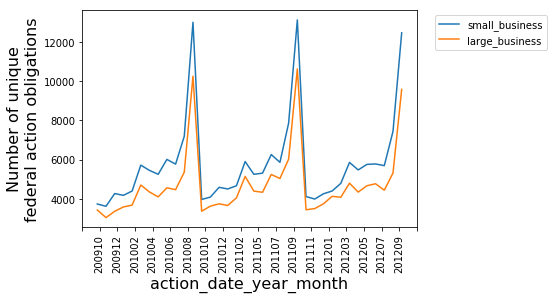
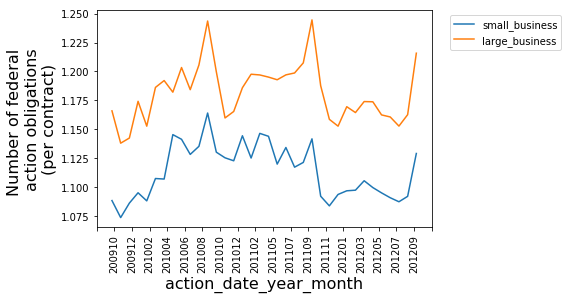
update graph for federal obligation

Changed region(s): [[0.0, 0.03, 0.7993, 0.99], [0.83, 0.06, 1.0, 0.18]]

diff --git a/codes/qp_did_sample_dist.py b/codes/qp_did_sample_dist.py
@@ -67,15 +67,20 @@ qp_data["action_date_ym"]=qp_data.action_date.apply(lambda x: x.year*100+x.month
 sb_data=qp_data[qp_data.small_business==1]
 lb_data=qp_data[qp_data.small_business==0]
 
-sb_data_obligation=sb_data.groupby(['action_date_ym'])['federal_action_obligation'].nunique().reset_index()
-lb_data_obligation=lb_data.groupby(['action_date_ym'])['federal_action_obligation'].nunique().reset_index()
+sb_data_obligation=sb_data.groupby(['action_date_ym'],as_index=False).\
+                    agg({'federal_action_obligation':'count','contract_award_unique_key':'nunique'})
+lb_data_obligation=lb_data.groupby(['action_date_ym'],as_index=False).\
+                    agg({'federal_action_obligation':'count','contract_award_unique_key':'nunique'})
+
+sb_data_obligation["normalized_federal_obligations"]=sb_data_obligation.federal_action_obligation/sb_data_obligation.contract_award_unique_key
+lb_data_obligation["normalized_federal_obligations"]=lb_data_obligation.federal_action_obligation/lb_data_obligation.contract_award_unique_key
 
 fig = plt.figure()
 plt.xticks(rotation=90)
 plt.gca().xaxis.set_major_locator(LinearLocator(numticks=20))  
-plt.plot(sb_data_obligation.action_date_ym.astype(str),sb_data_obligation.federal_action_obligation,label="small_business")
-plt.plot(lb_data_obligation.action_date_ym.astype(str),lb_data_obligation.federal_action_obligation,label="large_business")
+plt.plot(sb_data_obligation.action_date_ym.astype(str),sb_data_obligation.normalized_federal_obligations,label="small_business")
+plt.plot(lb_data_obligation.action_date_ym.astype(str),lb_data_obligation.normalized_federal_obligations,label="large_business")
 plt.legend(bbox_to_anchor=(1.04,1), loc="upper left")
-plt.ylabel('Number of unique\nfederal action obligations', fontsize=16)
+plt.ylabel('Number of federal \naction obligations\n(per contract)', fontsize=16)
 plt.xlabel('action_date_year_month', fontsize=16)
 plt.savefig('/Users/vibhutidhingra/Dropbox/data_quickpay/did_sample_dist_federal_obligation.png', bbox_inches = "tight")
